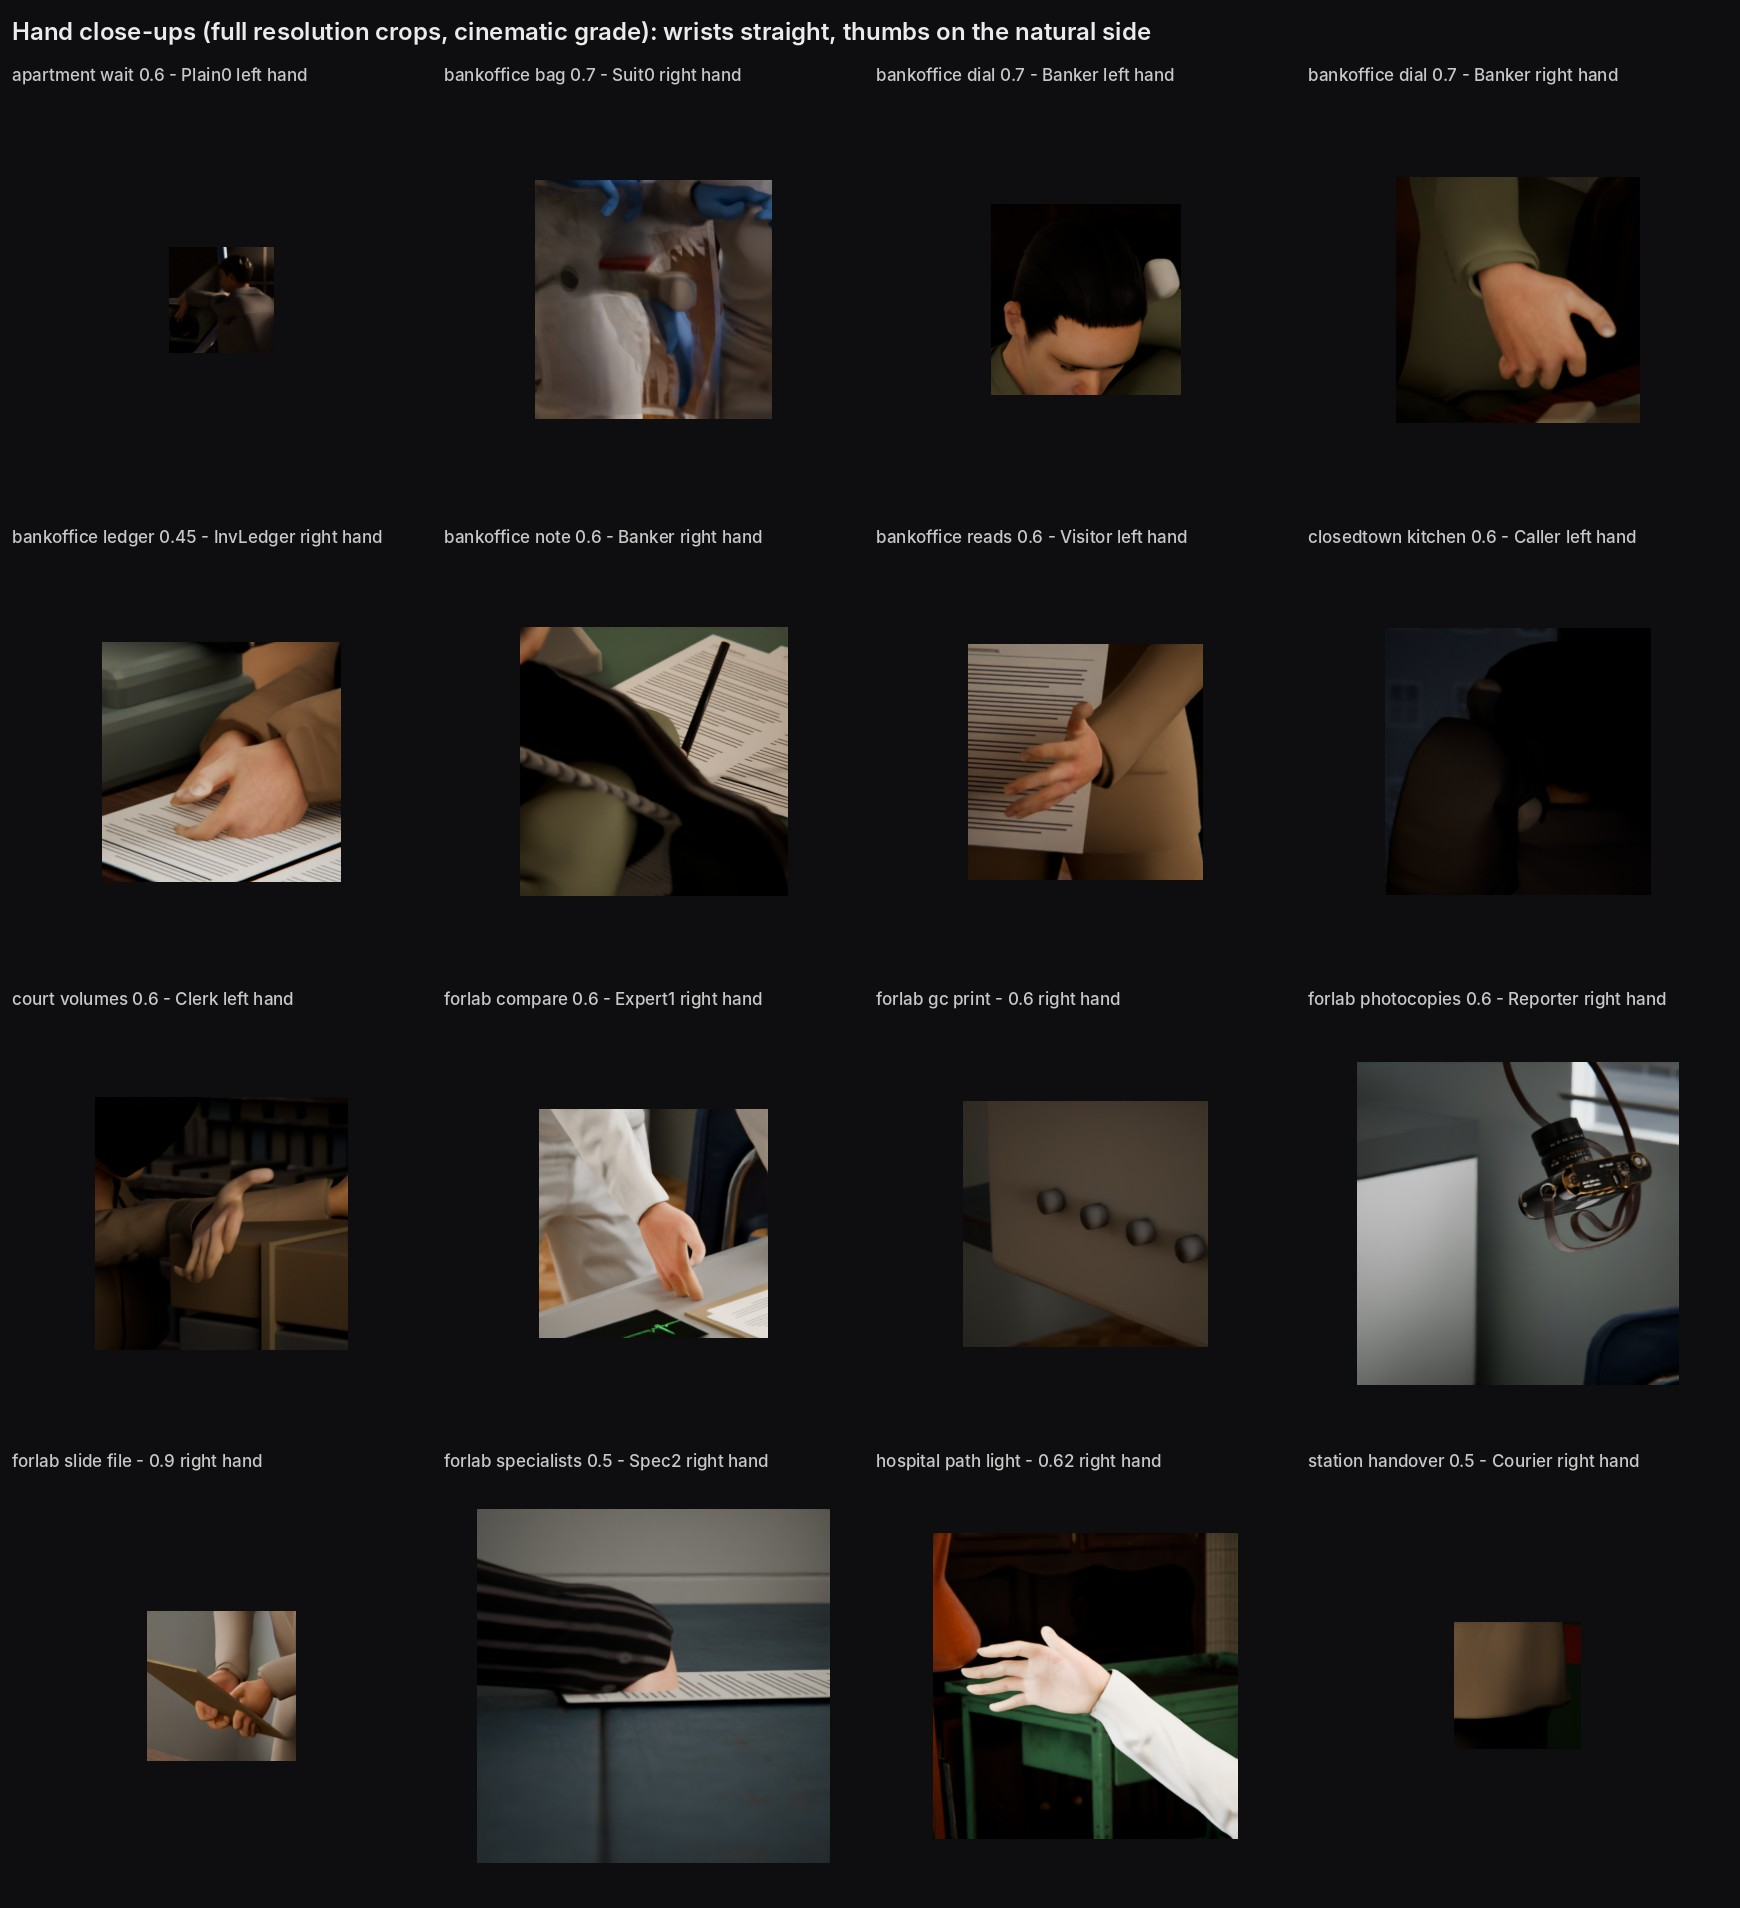
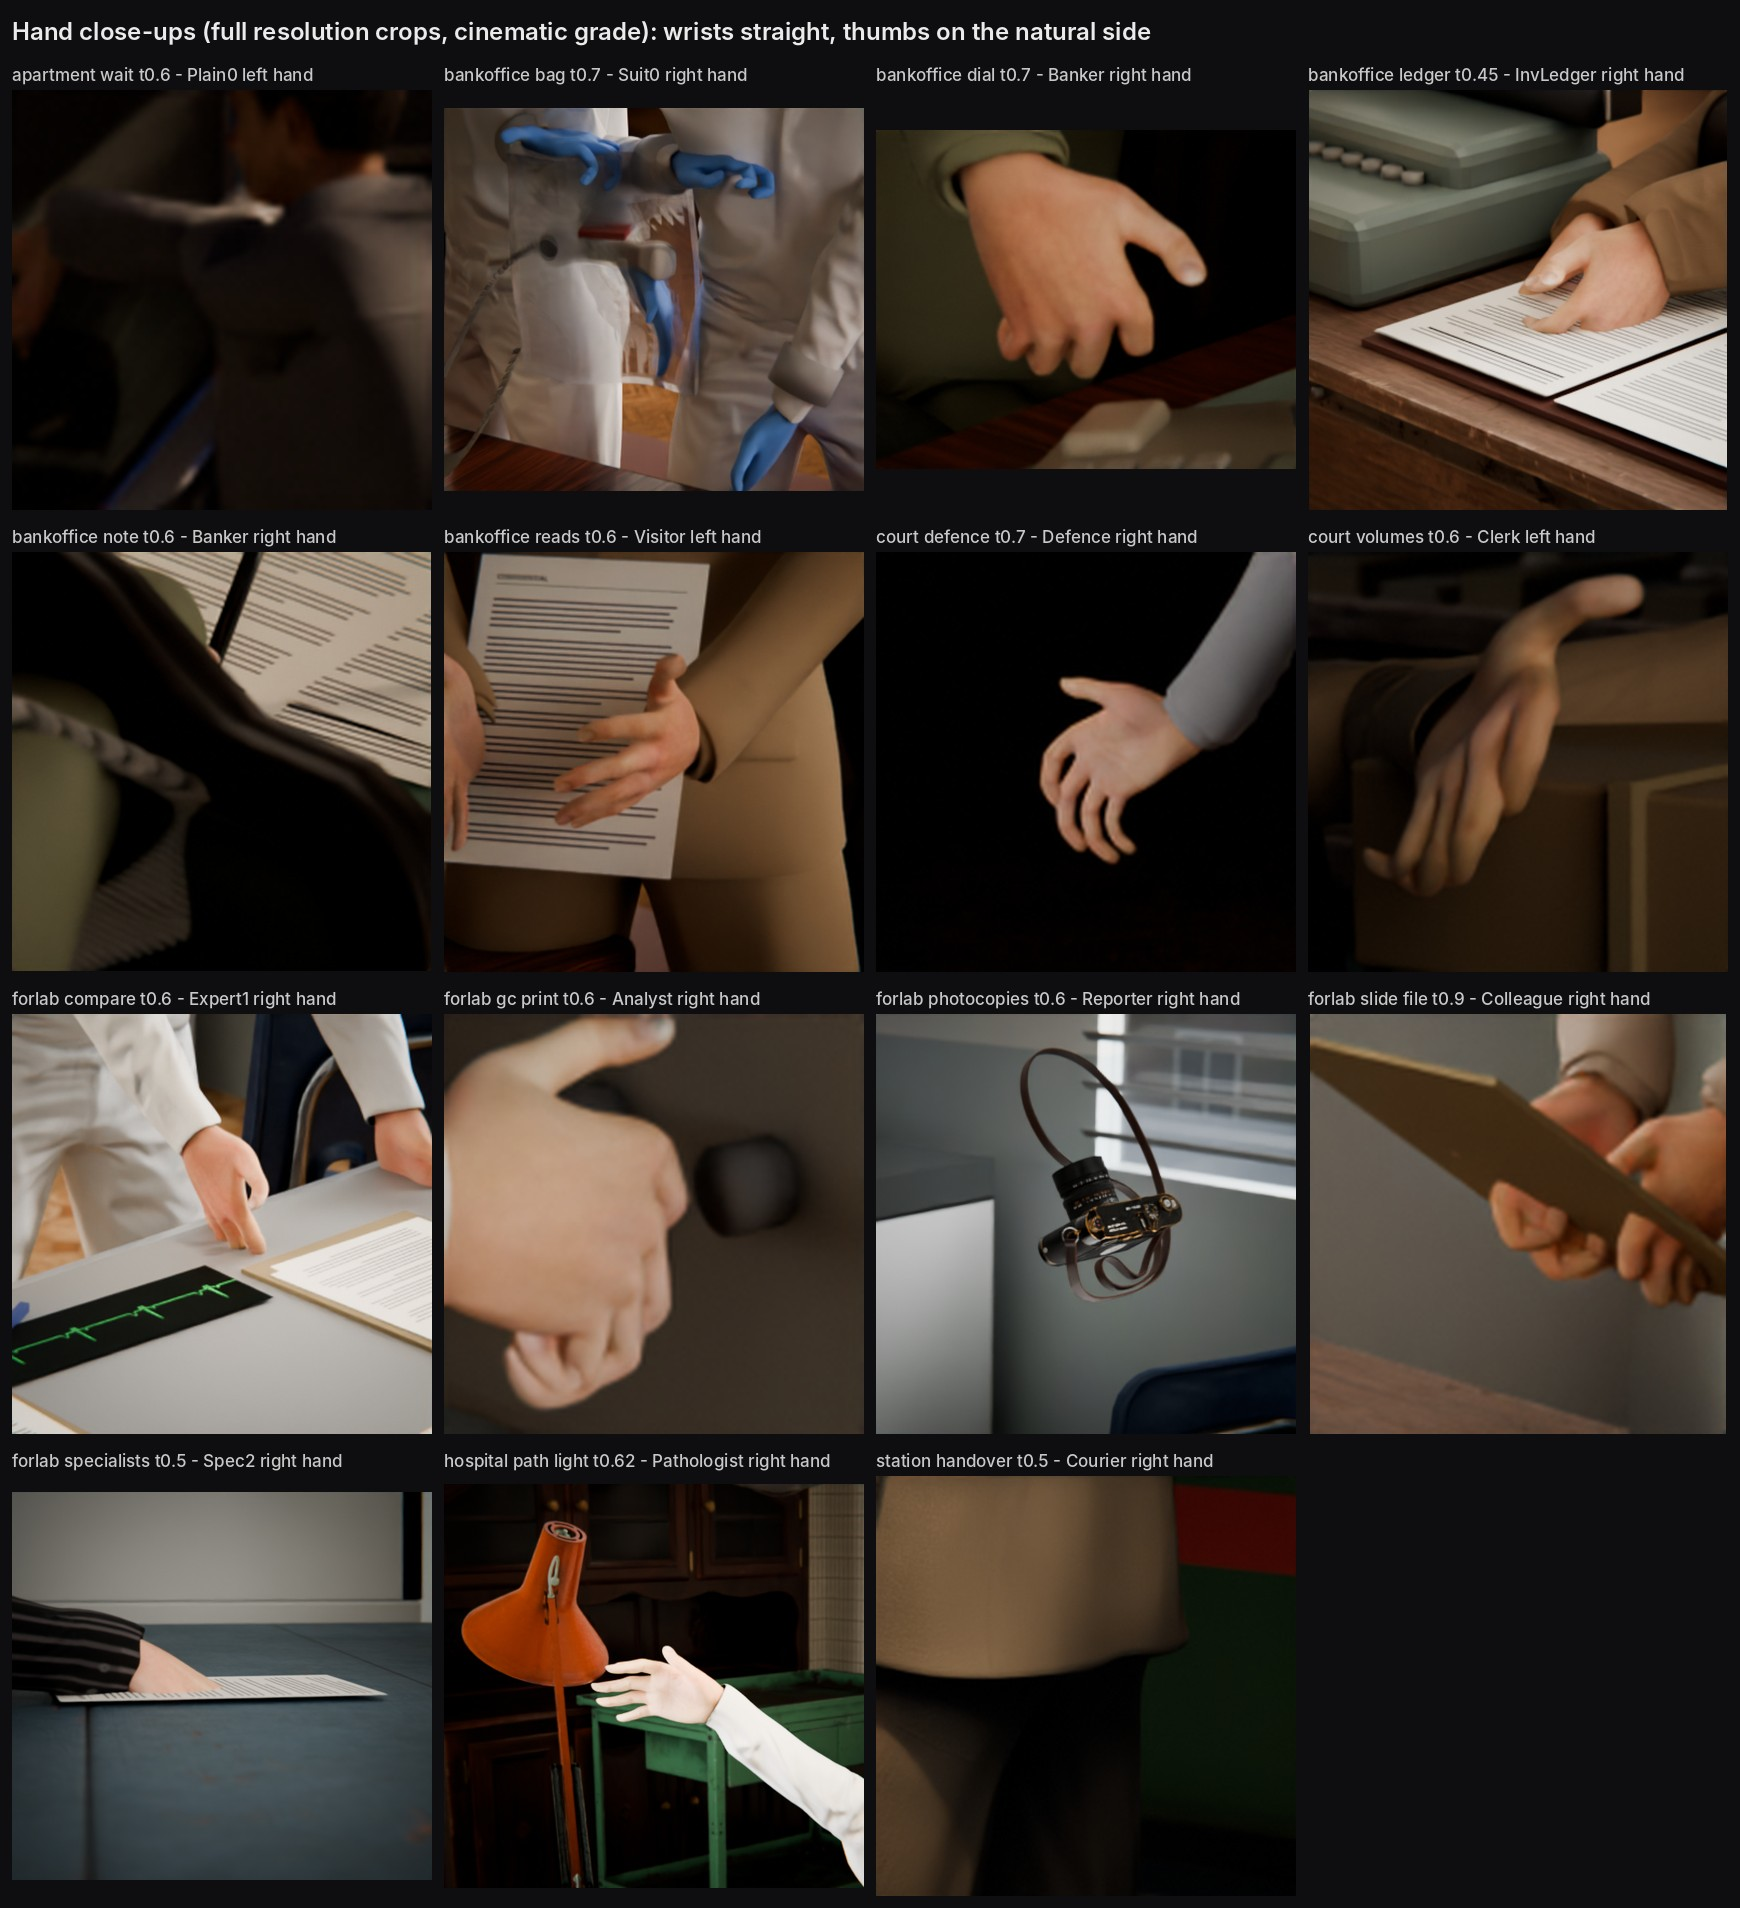
Phone banker hands: 4A fingertips on the analyser knob (were inside the panel), 8B fingers along the page (were dipping into the table); hand close-up sheet
Claude-Session: https://claude.ai/code/session_01XfwPSnGcwN4iGzjHJz672Z

diff --git a/projects/phone-banker/scenes/sc_forlab.py b/projects/phone-banker/scenes/sc_forlab.py
@@ -354,7 +354,8 @@ def a_gc(c, sec):
     stand(an, (knob.x + 0.22, knob.y + 0.36, 0), 0.0)                                # faces -Y, close to the instrument
     nod(an, "spine04", 8); nod(an, "head", 16)
     look(an, c["analyser"].matrix_world @ Vector((0.42, -0.25, 0.15)), 0.6)
-    hand_to(an, "R", knob + Vector((0.0, 0.03, 0.0)), hand_dir=Vector((0, -0.9, -0.2)), curl=40)
+    # the wrist sits a hand's length in front of the knob, so the fingertips rest on it instead of in the panel
+    hand_to(an, "R", knob + Vector((0.0, 0.12, 0.02)), hand_dir=Vector((0, -0.95, -0.15)), curl=30)
 
 
 def a_saratov(c, sec):
@@ -439,7 +440,7 @@ def a_specialists(c, sec):
     pg = c["sheetB"]; pg.location = Vector((1.62, 2.1, 0.868)).lerp(Vector((1.7, 1.9, 0.868)), k)
     # fingertips on the far edge of the page, the forearm low over the table; the hand draws back once it is across
     tip = pg.location + Vector((-0.02, 0.12, 0.095))
-    hand_to(s2, "R", tip.lerp(tip + Vector((0.05, 0.25, 0.0)), back), pole=table_pole(s2, "R"), hand_dir=Vector((0, -0.35, -0.9)), curl=8)
+    hand_to(s2, "R", tip.lerp(tip + Vector((0.05, 0.25, 0.0)), back), pole=table_pole(s2, "R"), hand_dir=Vector((0, -0.9, -0.3)), curl=8)                     # fingers along the page, not down into it
     hand_to(s2, "L", Vector((2.12, 2.18, 0.955)), pole=table_pole(s2, "L"), hand_dir=Vector((0, -0.6, -0.7)), curl=25)
     nod(s2, "spine04", 8); nod(s2, "head", 14); nod(s1, "head", 16); look(s1, pg.location, 0.5)
     hand_to(s1, "L", Vector((1.72, 1.52, 0.915)), pole=table_pole(s1, "L"), hand_dir=Vector((0, 0.7, -0.6)), curl=25)
